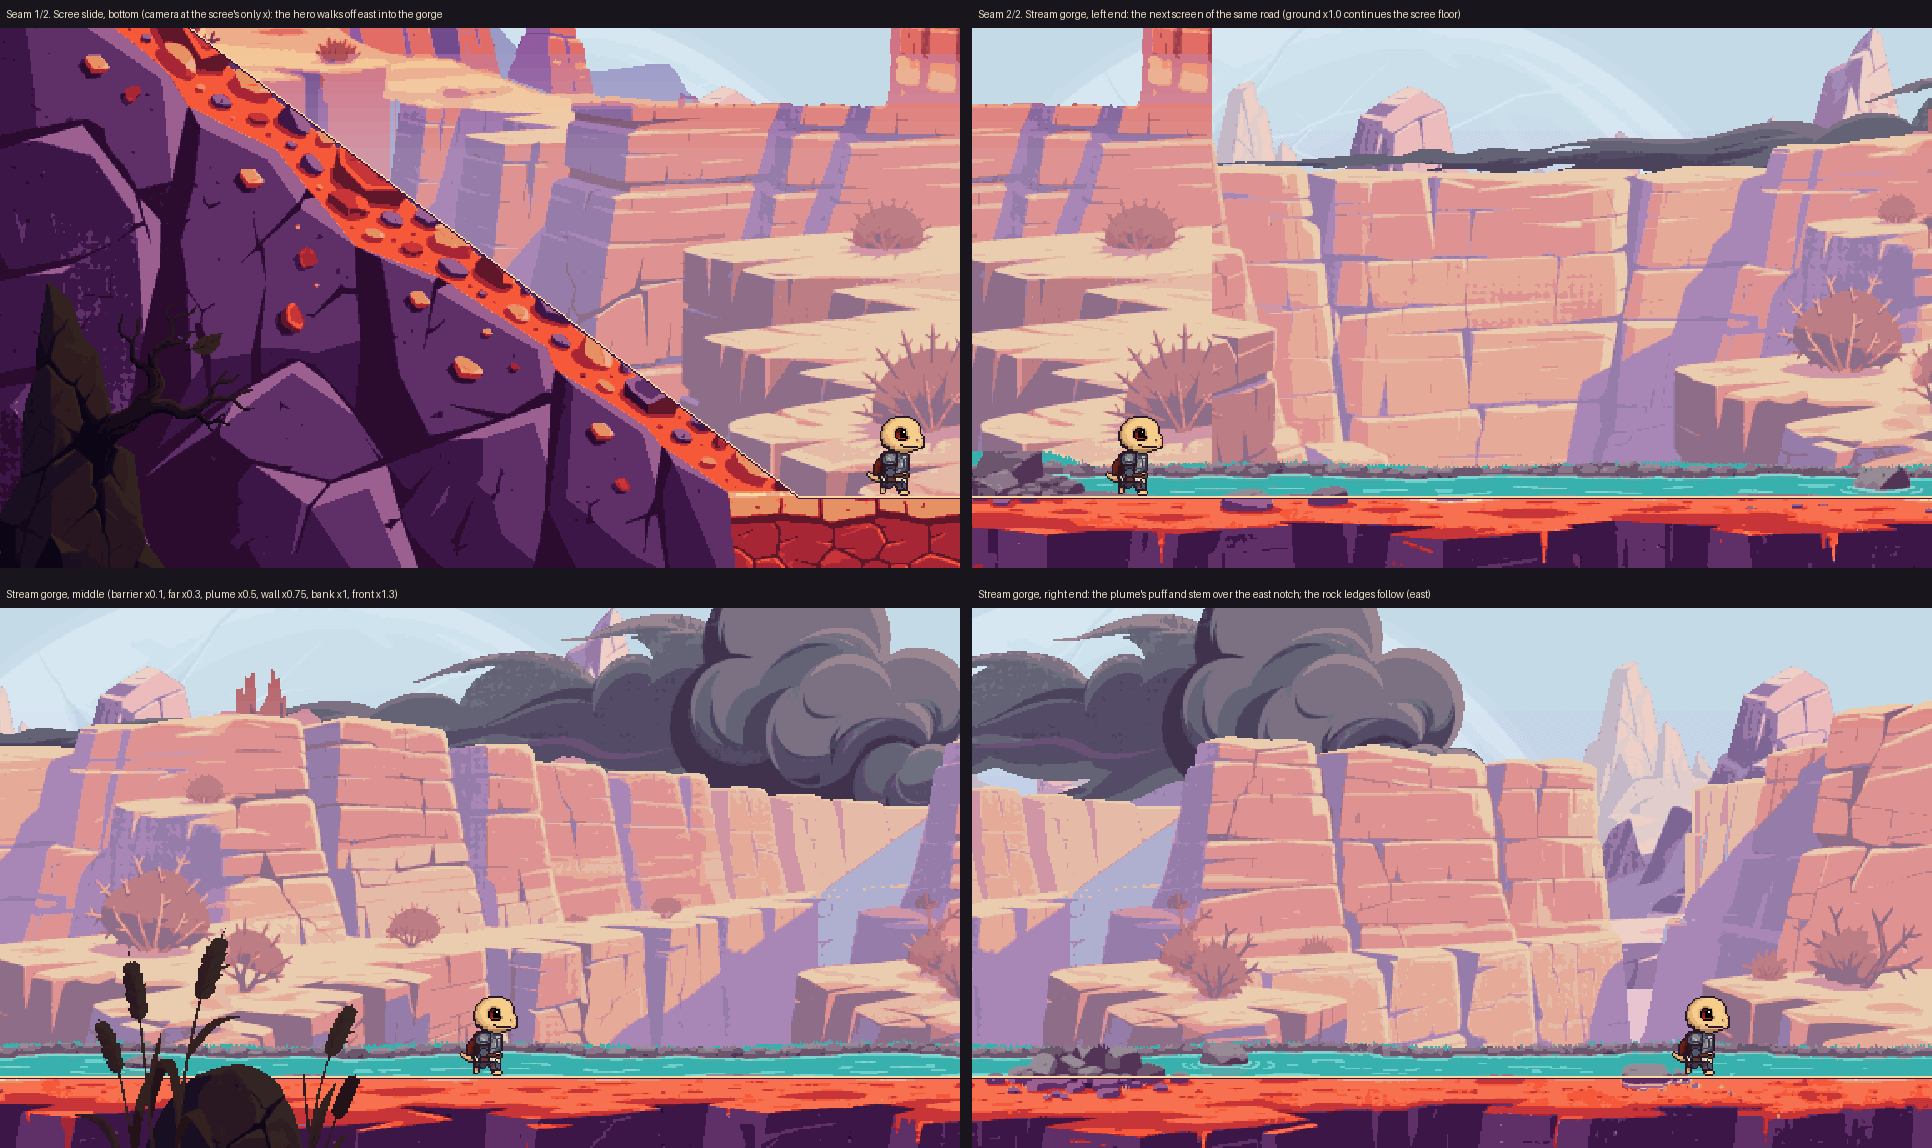
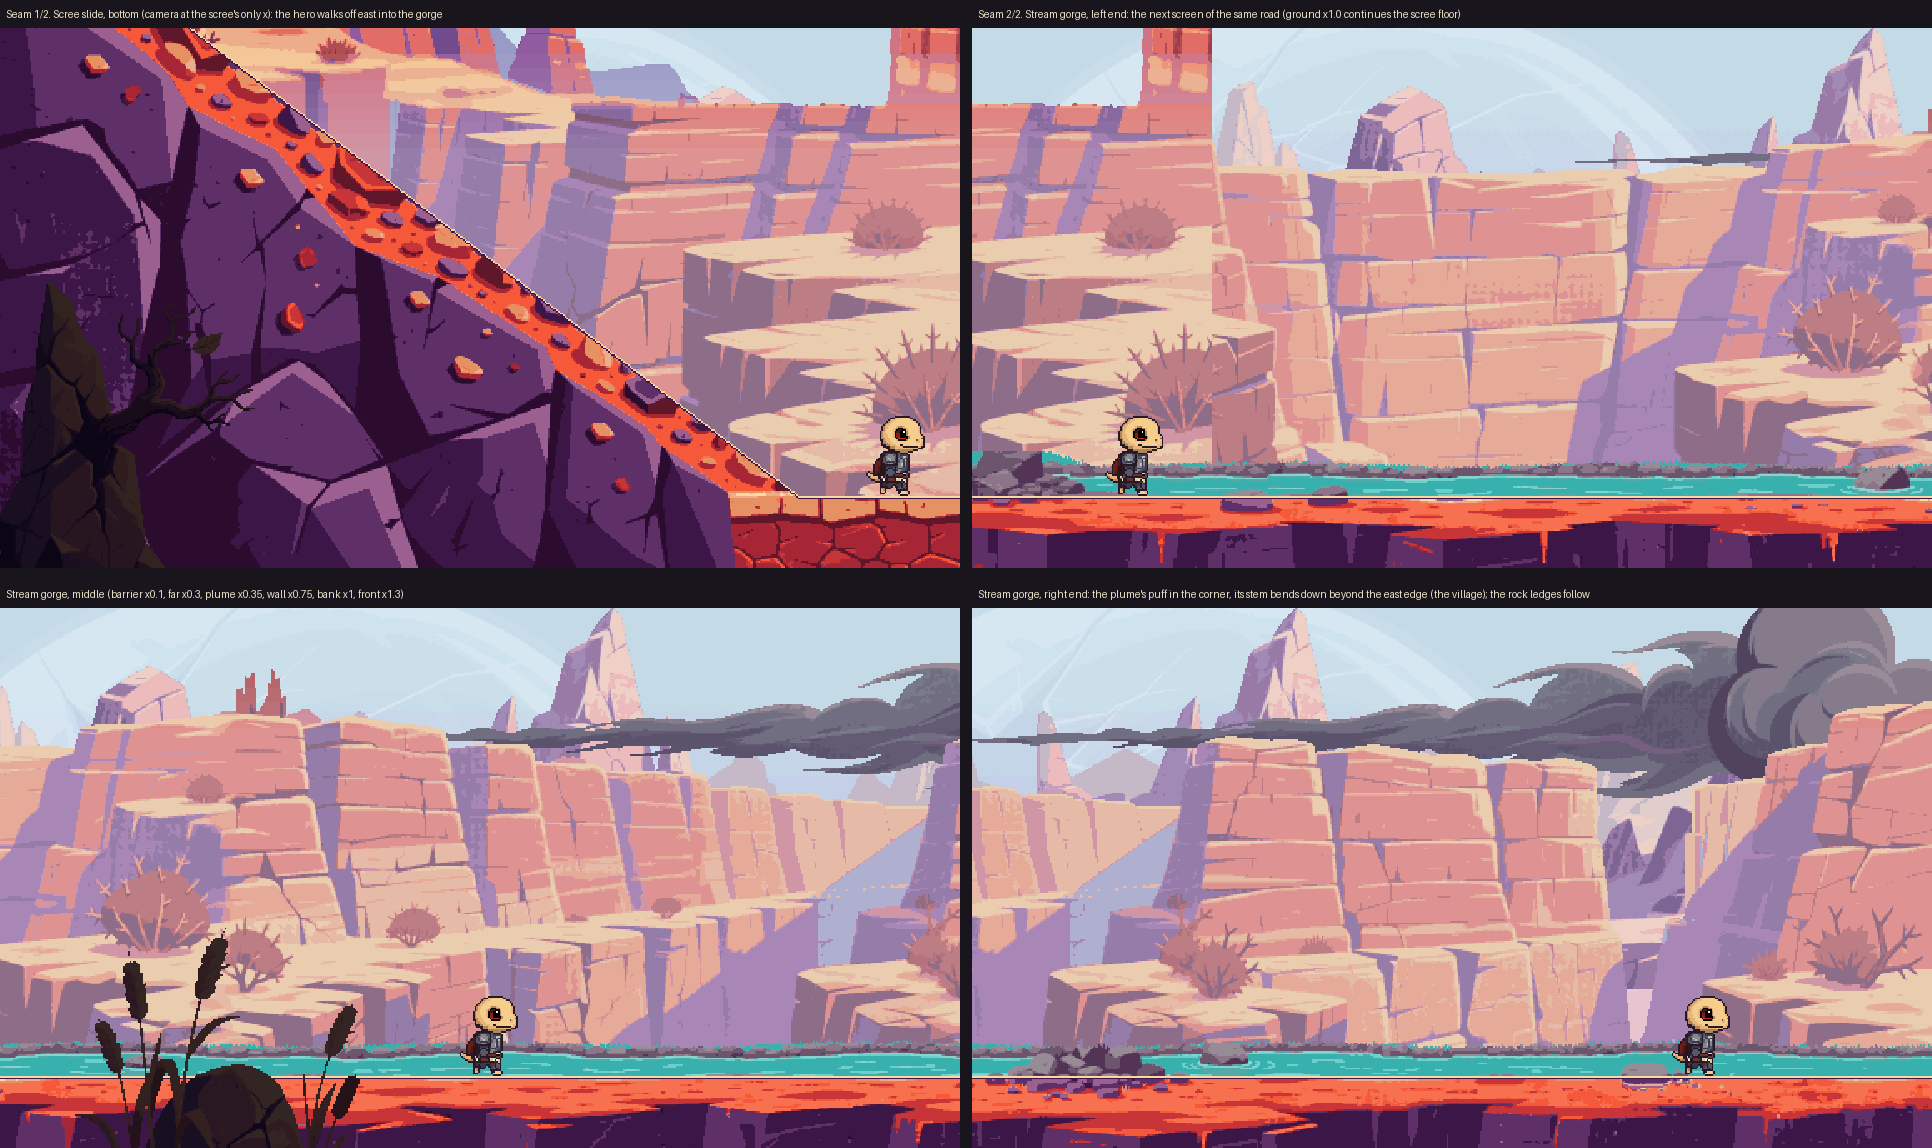
M6a-2a fix: the gorge smoke reads as the village beyond the next screen (D796, Sapega)
The gorge plume shrinks to 0.85 (654x169, still bigger than the path's), gets haze 0.2 and moves to x0.35:
the stem is never in view, the puff sits in the right end's corner and bends down beyond the east edge.
Adds the RockLedges/gen_plume layer (the road's biggest, 856x223) for M6a-2b.

Claude-Session: https://claude.ai/code/session_01A2gnDWaoeJGbj3GPH4dnCF

Changed region(s): [[0.1553, 0.5183, 1.0, 0.7012], [0.6522, 0.061, 1.0, 0.1524], [0.0, 0.6098, 0.0311, 0.6707]]

diff --git a/design/shots/candidates/gorge_planes/gorge_planes.py b/design/shots/candidates/gorge_planes/gorge_planes.py
@@ -84,9 +84,11 @@ WATER = np.array(
     [[46, 84, 112], [70, 122, 146], [112, 168, 184], [196, 226, 232]], np.float32
 )
 
-# шлейф (D796): власний план ущелини, ×0.5 — ближчий за спільний ×0.4 стежки й осипища, у 4/3 більший; ліворуч над
-# гребенем лише верх тіла, посередині клуб біля правого краю, праворуч клуб і стебло, що йде за сідловину
-PLUME_F = 0.5
+# шлейф (D796): власний план ущелини, більший за спільний шлейф стежки й осипища (654 проти 589). Сапега: «дим має бути
+# видно, що за наступним екраном спалене село» — стебло ніколи не в кадрі: праворуч клуб у правому верхньому куті, а
+# стебло нахиляється за східний край; ×0.35 (далеко, за наступним екраном) — ліворуч над гребенем тіло, посередині
+# тіло через усе небо, праворуч клуб біля краю
+PLUME_F = 0.35
 FRONT_F = 1.3
 
 
@@ -330,10 +332,10 @@ def planes(stem_only=False):
 
 
 def plume_at(plume):
-    """Якір шлейфу: при камері правого краю стебло (зріз внизу) — у сідловині, x ~300 кадру, низ — у рядку кадру 170,
-    нижче дна сідловини (~147)."""
+    """Якір шлейфу: при камері правого краю стебло (зріз внизу) — за східним краєм кадру (x 600), низ — у рядку кадру 155 (верх клубу трохи за верхнім краєм),
+    нижче гребеня біля правого краю (~51), тож у кадрі й частина стебла під гребенем схована стіною."""
     stem = np.nonzero(plume[-1, :, 3])[0].mean()
-    return (300 - stem + PLUME_F * CX[2], 170 - len(plume) + PLUME_F * CY)
+    return (600 - stem + PLUME_F * CX[2], 155 - len(plume) + PLUME_F * CY)
 
 
 def check_stem():
@@ -382,11 +384,11 @@ def sheet():
             view(ps, CX[0], CY, (X0 + 60, feet, hero)),
         ),
         (
-            "Stream gorge, middle (barrier x0.1, far x0.3, plume x0.5, wall x0.75, bank x1, front x1.3)",
+            "Stream gorge, middle (barrier x0.1, far x0.3, plume x0.35, wall x0.75, bank x1, front x1.3)",
             view(ps, CX[1], CY, (CX[1] + 288 - hw // 2, feet, hero)),
         ),
         (
-            "Stream gorge, right end: the plume's puff and stem over the east notch; the rock ledges follow (east)",
+            "Stream gorge, right end: the plume's puff in the corner, its stem bends down beyond the east edge (the village); the rock ledges follow",
             view(ps, CX[2], CY, (CX[2] + 400, feet, hero)),
         ),
     ]

diff --git a/Scripts/Tools/comfy_backdrop.py b/Scripts/Tools/comfy_backdrop.py
@@ -1206,11 +1206,22 @@ LAYERS = {
         f"light on the tops, cool violet shadows in the cracks, {CHROMA}",
     ),
 }
-# шлейф ущелини (D796: ближчий і більший) — та сама генерація, що й на стежці (кеш), зменшена в 3 рази, а не в 4
+# шлейф ущелини (D796: ближчий і більший) — та сама генерація, що й на стежці (кеш). Сапега: «дим має бути видно, що за
+# наступним екраном спалене село» — тож трохи менший, ніж був (×3 давав клуб на пів неба над власною стіною ущелини):
+# height — висота всього диму з обрізаним стеблом у px шару (сира 716 рядків → ×0.85 від зменшення в 3 рази)
 LAYERS["StreamGorge/gen_plume"] = {
     **LAYERS["MountainPath/gen_plume"],
     "block": 3,
-    "keep": 248,  # 186 рядків стежки × 4/3
+    "height": 203,
+    "keep": 211,  # рядок сирої 744 (зріз стебла) × 0.85 / 3
+    "haze": 0.2,  # далі за гребенем — блідіший
+}
+# скельні уступи (M6a-2b): найбільший шлейф дороги (D796) — дим спаленого села просто за проходом; сира × 1.12 / 3
+LAYERS["RockLedges/gen_plume"] = {
+    **LAYERS["MountainPath/gen_plume"],
+    "block": 3,
+    "height": 267,
+    "keep": 278,
 }
 
 
@@ -1333,7 +1344,9 @@ def seam_pass(img, layer, text, height):
 
 def cache_path(layer):
     tag = [layer["prompt"], STYLE, layer["seed"], layer["rows"], layer["seam"]]
-    if layer.get("width"):  # ширший за екран шар (шлейф диму); без width ключ кешу старий
+    if layer.get(
+        "width"
+    ):  # ширший за екран шар (шлейф диму); без width ключ кешу старий
         tag.append(layer["width"])
     tag = json.dumps(tag)
     return os.path.join(CACHE, hashlib.sha1(tag.encode()).hexdigest()[:16] + ".png")
@@ -1439,7 +1452,9 @@ def fit_height(img, h):
     bg = np.median(img[:24].reshape(-1, 3), axis=0)
     labels, n = ndimage.label(np.linalg.norm(img - bg, axis=2) > KEY_DISTANCE)
     sizes = ndimage.sum(np.ones(labels.shape), labels, range(1, n + 1))
-    ys = np.nonzero((labels == 1 + int(np.argmax(sizes))).any(axis=1))[0]  # лише сам предмет, без крихт довкола
+    ys = np.nonzero((labels == 1 + int(np.argmax(sizes))).any(axis=1))[
+        0
+    ]  # лише сам предмет, без крихт довкола
     f = h / (ys.max() - ys.min() + 1)
     size = (round(img.shape[1] * f), round(img.shape[0] * f))
     return np.asarray(

diff --git a/SampleProject/Assets/Backgrounds/StreamGorge/README.md b/SampleProject/Assets/Backgrounds/StreamGorge/README.md
@@ -16,11 +16,12 @@ plane with factor f is drawn at anchor − f × camera; the gorge's camera is at
 
 - sky, `MountainPath/gen_barrier.png` (×0.1, anchor (115, 4)), `MountainPath/gen_far.png` (×0.3, tile) — shared with
   the path and the scree, so they go on from where the scree left them; the far peaks are mostly behind the wall.
-- `gen_plume.png` (769×199) — the gorge's own smoke plane (D796: nearer and bigger): the same generation as
-  `MountainPath/gen_plume.png` reduced 3× instead of 4×. ×0.5, anchor (986, 129). At the left end only the top of its
-  body shows over the rim, in the middle the puff stands over the east part of the wall, at the right end the puff and
-  the stem bend down behind the rim; the stem's cut bottom (frame row 169) is behind the opaque wall at every camera x
-  (`gorge_planes.py build` asserts it).
+- `gen_plume.png` (654×169) — the gorge's own smoke plane (D796: bigger than the path's 589×149): the same generation
+  as `MountainPath/gen_plume.png`, scaled to 0.85 of a 3× reduction and hazed 0.2. ×0.35, anchor (967, 97). Sapega:
+  the smoke must read as the burnt village beyond the next screen, never as a fire in the gorge — so its stem is never
+  in view: at the left end the thin tip shows over the rim, in the middle the body crosses the sky, at the right end the
+  puff sits in the upper right corner and the stem bends down beyond the east edge; the stem's cut bottom (frame row
+  155) is off-screen east at every camera x (`gorge_planes.py build` asserts it).
 - `gen_mid.png` (1440×340) — the far wall of the gorge, ×0.75, anchor (1296, 232); its rows are the Scree Slide wall's
   rows 232–572 and its columns 0–144 are that wall's columns 432–576 (the same place in the world), so the wall goes on
   at the border. The rim is 45–110 px below the frame top (a band of sky with the barrier), lower in the east (to
